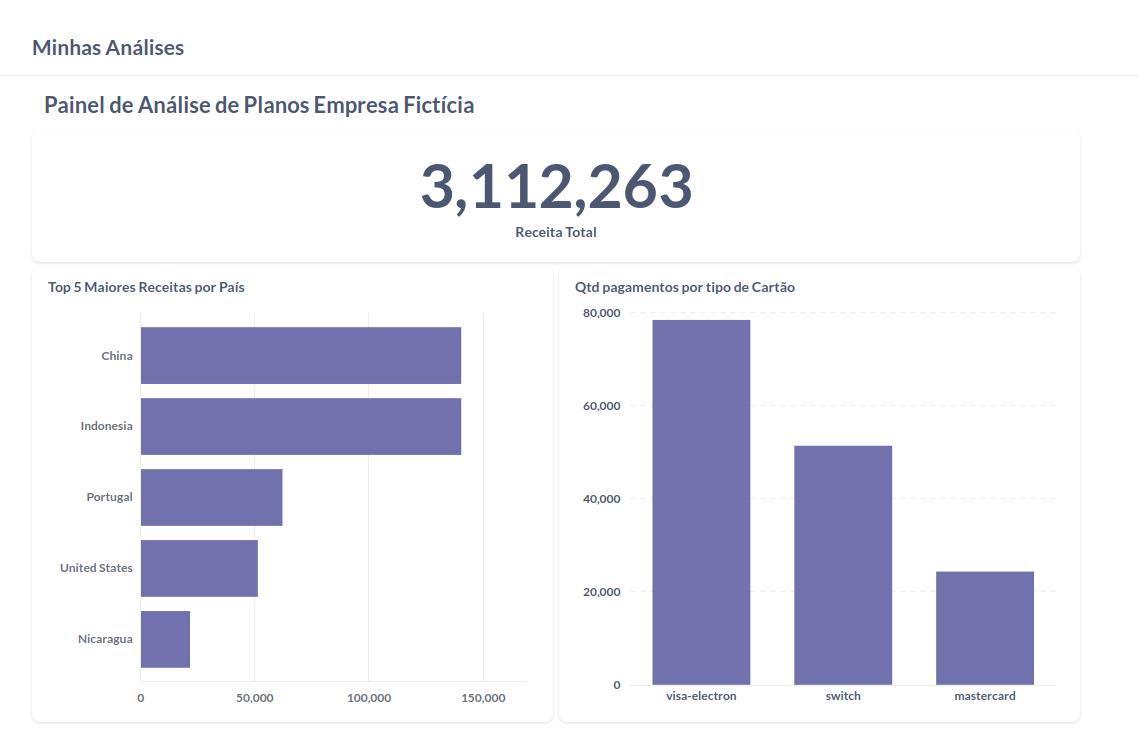
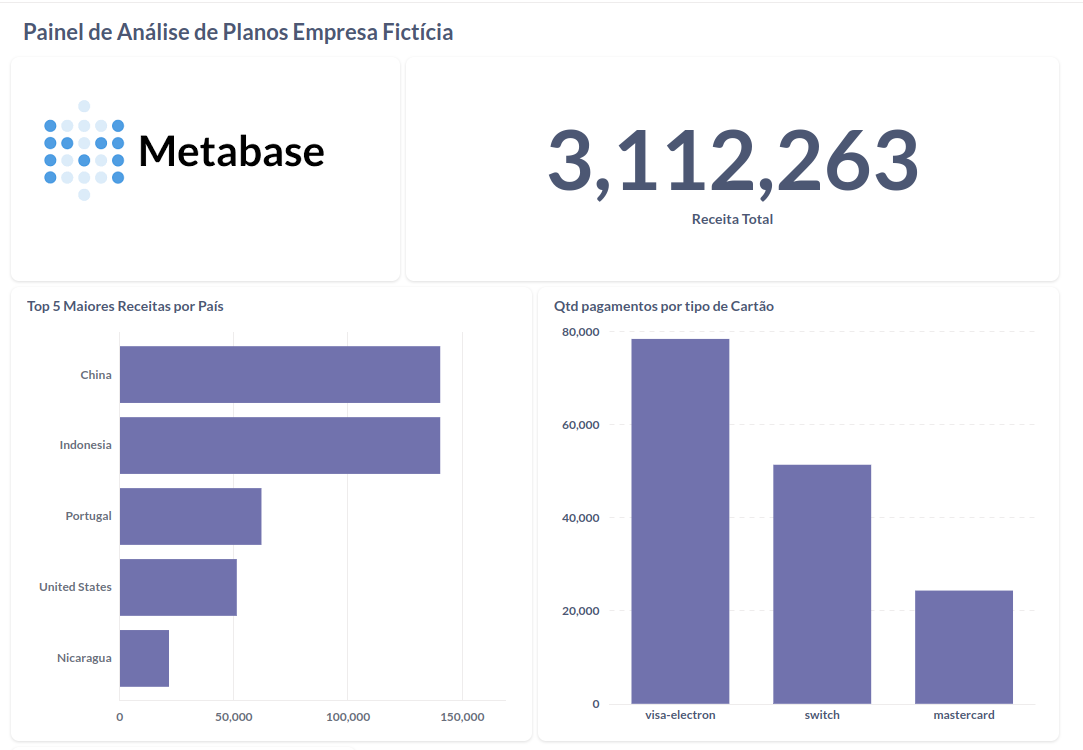
ajustes imagem

diff --git a/README.md b/README.md
@@ -90,7 +90,7 @@ Dashboard e relatórios configurados para visualizar os dados da camada Gold no 
 
 ## Resultado da arquitetura com os dados da gold sendo consumidos pelo metabase
 
-![Dados Consumidos pelo Snowflake](<metabase.png>)
+![Dados Consumidos pelo Metabase](<metabase.png>)
 
 
 
